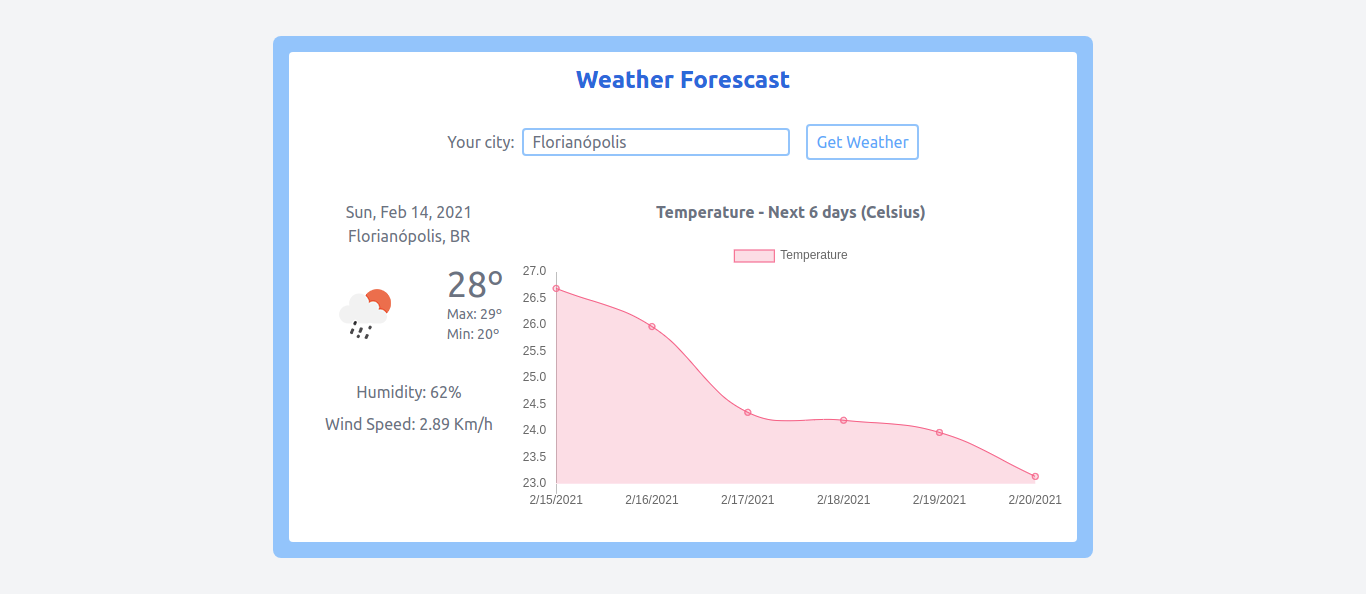
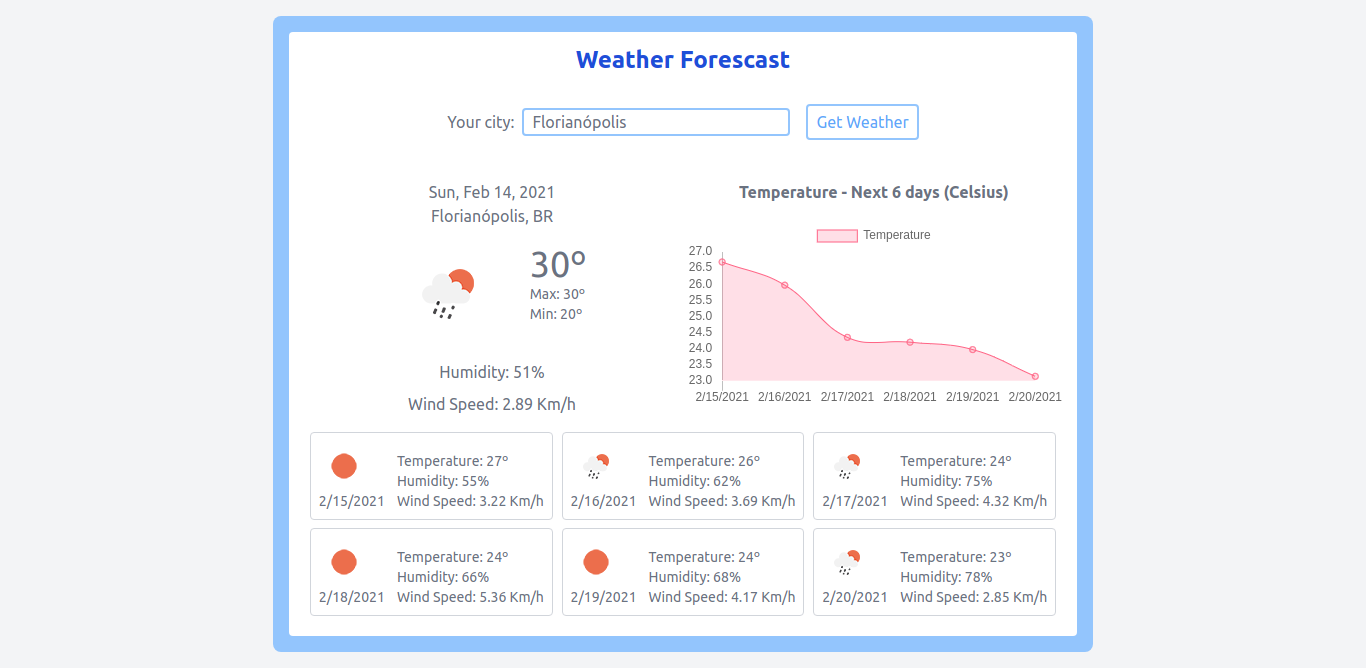
added next 6 days forecast

Changed region(s): [[0.1845, 0.0, 0.7994, 1.0], [0.246, 0.4848, 0.3075, 0.5152], [0.246, 0.5455, 0.2767, 0.5758]]

diff --git a/src/App.js b/src/App.js
@@ -7,6 +7,7 @@ import axios from "axios";
 import Header from "./components/Header";
 import Stats from "./components/Stats";
 import Chart from "./components/Chart";
+import ForecastStats from "./components/ForecastStats";
 
 function App() {
   const BASE_URL = "https://codementor-weather-app-api.herokuapp.com";
@@ -104,23 +105,30 @@ function App() {
   return (
     <>
       <ToastContainer />
-      <div className="flex justify-center items-center w-screen h-screen bg-gray-100">
-        <div className="bg-blue-300 w-11/12 sm:w-4/5 xl:w-3/5 p-4 rounded-lg">
+      <div className="flex justify-center items-center w-screen sm:h-screen mt-4 sm:mt-0 bg-gray-100">
+        <div className="bg-blue-300 w-11/12 sm:w-4/5 xl:w-3/5 p-2 sm:p-4 rounded-lg">
           <div className="bg-white p-3 rounded text-gray-500">
             <h1 className="text-2xl text-center font-bold mb-6 text-blue-700">Weather Forescast</h1>
             <Header getDataWithName={getDataWithName} cityName={cityName} setCityName={setCityName} />
             {weatherData ? (
-              <div className="flex flex-wrap sm:flex-nowrap justify-between my-4">
-                <div className="w-full mb-4 sm:mb-0">
-                  <Stats weatherData={weatherData} />
+              <div>
+                <div className="flex flex-wrap sm:flex-nowrap justify-between my-4">
+                  <div className="w-full mb-4 sm:mb-0">
+                    <Stats weatherData={weatherData} />
+                  </div>
+                  <div className="w-full sm:max-w-1/2">
+                    <p className="mb-4 text-center font-bold">Temperature - Next 6 days (Celsius)</p>
+                    <Chart next6days={next6days} />
+                  </div>
                 </div>
-                <div className="w-full sm:max-w-1/2">
-                  <p className="mb-4 text-center font-bold ">Temperature - Next 6 days (Celsius)</p>
-                  <Chart next6days={next6days} />
+                <div className="w-full flex flex-wrap justify-evenly">
+                  {weatherData.list.slice(1).map((day) => {
+                    return <ForecastStats day={day} key={day.dt} />;
+                  })}
                 </div>
               </div>
             ) : (
-              <p>Insert a city name and get the weather</p>
+              <p className="text-center">Insert a city name and get the weather</p>
             )}
           </div>
         </div>

diff --git a/src/components/Stats.js b/src/components/Stats.js
@@ -1,26 +1,29 @@
 import { DateTime } from "luxon";
 
 function Stats({ weatherData }) {
+  console.log(weatherData);
   return (
     <div>
       <p className="text-center">{weatherData.list[0].newDate.toLocaleString(DateTime.DATE_MED_WITH_WEEKDAY)}</p>
       <p className="text-center">
         {weatherData.city.name}, {weatherData.city.country}
       </p>
-      <div className="flex my-4 justify-center">
-        <img
-          alt={weatherData.list[0].weather[0].description}
-          title={weatherData.list[0].weather[0].description}
-          src={`http://openweathermap.org/img/wn/${weatherData.list[0].weather[0].icon}@2x.png`}
-        />
-        <div className="ml-8">
-          <h3 className="text-4xl">{Math.round(weatherData.list[0].temp.day)}º</h3>
-          <p className="text-sm">Max: {Math.round(weatherData.list[0].temp.max)}º</p>
-          <p className="text-sm">Min: {Math.round(weatherData.list[0].temp.min)}º</p>
+      <div>
+        <div className="flex my-4 justify-center">
+          <img
+            alt={weatherData.list[0].weather[0].description}
+            title={weatherData.list[0].weather[0].description}
+            src={`http://openweathermap.org/img/wn/${weatherData.list[0].weather[0].icon}@2x.png`}
+          />
+          <div className="ml-8">
+            <h3 className="text-4xl">{Math.round(weatherData.list[0].temp.day)}º</h3>
+            <p className="text-sm">Max: {Math.round(weatherData.list[0].temp.max)}º</p>
+            <p className="text-sm">Min: {Math.round(weatherData.list[0].temp.min)}º</p>
+          </div>
         </div>
+        <h4 className="mb-2 text-center">Humidity: {weatherData.list[0].humidity}%</h4>
+        <h4 className="text-center">Wind Speed: {weatherData.list[0].speed} Km/h</h4>
       </div>
-      <h4 className="mb-2 text-center">Humidity: {weatherData.list[0].humidity}%</h4>
-      <h4 className="text-center">Wind Speed: {weatherData.list[0].speed} Km/h</h4>
     </div>
   );
 }

diff --git a/src/components/ForecastStats.js b/src/components/ForecastStats.js
@@ -1,0 +1,23 @@
+import { DateTime } from "luxon";
+
+function ForecastStats({ day }) {
+  return (
+    <div className="flex justify-evenly border-gray-300 border text-sm items-end p-2 mb-2 w-full md:w-auto rounded">
+      <div className="mr-3 text-center">
+        <img
+          alt={day.weather[0].description}
+          title={day.weather[0].description}
+          src={`http://openweathermap.org/img/wn/${day.weather[0].icon}.png`}
+        />
+        <p className="text-center">{day.newDate.toLocaleString(DateTime.DATE_SHORT)}</p>
+      </div>
+      <div>
+        <p className="">Temperature: {Math.round(day.temp.day)}º</p>
+        <p className="">Humidity: {day.humidity}%</p>
+        <p className="">Wind Speed: {day.speed} Km/h</p>
+      </div>
+    </div>
+  );
+}
+
+export default ForecastStats;

diff --git a/tailwind.config.js b/tailwind.config.js
@@ -2,6 +2,13 @@ module.exports = {
   purge: ["./src/**/*.{js,jsx,ts,tsx}", "./public/index.html"],
   darkMode: false, // or 'media' or 'class'
   theme: {
+    minHeight: {
+      0: "0",
+      "1/4": "25%",
+      "1/2": "50%",
+      "3/4": "75%",
+      full: "100%",
+    },
     extend: {},
   },
   variants: {

diff --git a/README.md b/README.md
@@ -2,7 +2,7 @@
 
 <img src="./Weather Forecast App - Cover.png" alt="Screenshot Weather Forecast App" />
 
-<a href="https://codementor-weather-app.herokuapp.com/" target="_blank">Live demo</a>.
+<a href="https://weather-app.ascpenteado.vercel.app/" target="_blank">Live demo</a>.
 
 This is a <a href="https://www.codementor.io/projects/weather-forecast-website-atx32lz7zb" target="_blank">codementor project</a>.
 
